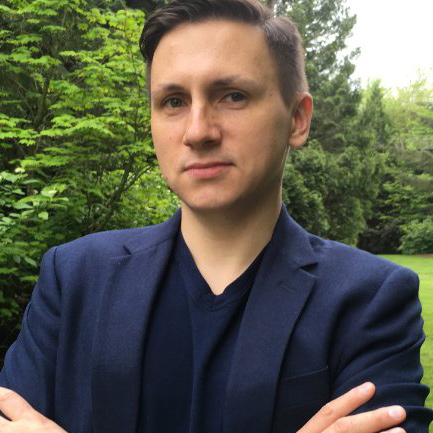
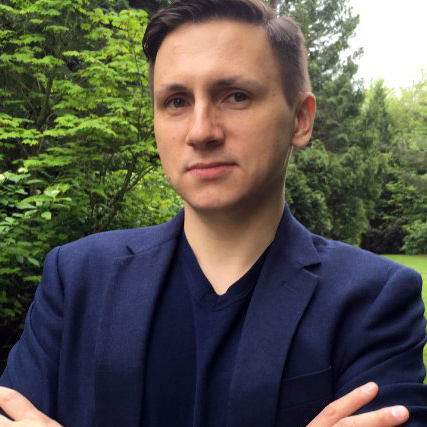
face fix

diff --git a/dist/index.html b/dist/index.html
@@ -14,7 +14,7 @@
 
 	// generate a new token for the $_SESSION superglobal and put them in a hidden field
 	$newToken = generateFormToken('form1');
-?><body><nav id="nav"><ul class="container"><li><a href="#top">Who I am</a></li><li><a href="#work">Work</a></li><li><a href="#portfolio">Portfolio</a></li><li><a href="#contact">Contact</a></li></ul></nav><div class="wrapper wrapper-style1 wrapper-first"><article class="container" id="top"><div class="row"><div class="4u"><span class="me image image-full"><img src="/images/27d9ab0a.me.jpg" alt=""/></span></div><div class="8u"><header><h1>Hi. I'm <strong>Gleb Polushkin</strong>.</h1></header><p>I am a <strong>front-end developer</strong> with 12+ years experience of web programming.</p><a href="#work" class="button button-big">Learn about what I do</a></div></div></article></div><div class="wrapper wrapper-style2"><article id="work"><header><h2>I'm using stable next-step technologies which makes websites richer</h2><span>It helps to create websites that allow the user to experience better filling of your service on wide range of mobile and non-mobile devices.</span></header><div class="container"><div class="row"><div class="4u"><section class="box box-style1"><span class="icn featured"><svg version="1.1" xmlns="http://www.w3.org/2000/svg" xmlns:xlink="http://www.w3.org/1999/xlink" xmlns:a="http://ns.adobe.com/AdobeSVGViewerExtensions/3.0/" x="0px" y="0px" width="166px" height="218px" viewbox="-16.8 -14.5 206 273" overflow="visible" enable-background="new -16.8 -14.5 206 273" xml:space="preserve"><defs></defs><path fill-rule="evenodd" clip-rule="evenodd" fill="#E34F26" d="M156.5,62.5l-12.8,151.2l-57.8,16.5L85.6,62.5H156.5z M172.4,48.4 c0,0-10.5,118.9-16.2,176.4C133.2,231.6,87.4,245,86,245c-1,0-46.8-13.4-70.2-20.1C10.5,167.3,0,48.4,0,48.4H172.4z"/><polygon fill-rule="evenodd" clip-rule="evenodd" fill="#F1662A" points="156.6,62.3 143.9,214.4 85.4,230.7 85.4,62.3 "/><path fill-rule="evenodd" clip-rule="evenodd" fill="#FFFFFF" d="M139.9,84.9l-1.9,20.6H55.4l2.1,22.8l78.6,0.2l-5.7,66.7l-44.4,12 l-43.9-12l-2.9-33.6h21l1.4,16.8l24.4,6.7c0,0,16.2-4.3,24.4-6.7c0.5,0,2.9-28.8,2.9-28.8H37.7l-5.2-64.7H139.9z"/><path fill-rule="evenodd" clip-rule="evenodd" fill="#010101" d="M141.4,0v22h15.3v10.6h-25.8V0H141.4z M99.3,0 c2.4,3.8,4.3,7.7,7.2,11.5L113.7,0h11v32.6h-10.5V16.3c-2.9,3.8-5.3,7.7-7.6,11.5l-8.1-11.5v16.3h-10V0H99.3z M82.6,0v10.5h-9.6 v22.1H62.6V10.5H53V0H82.6z M26.3,0v11h11V0h10v32.6h-10v-11h-11v11h-10V0H26.3z"/></svg></span> <p>HTML5 has the latest mm features and keeps it easily readable by humans and consistently understood by robots and other devices.</p></section></div><div class="4u"><section class="box box-style1"><span class="icn featured"><svg version="1.1" xmlns="http://www.w3.org/2000/svg" xmlns:xlink="http://www.w3.org/1999/xlink" xmlns:a="http://ns.adobe.com/AdobeSVGViewerExtensions/3.0/" x="0px" y="0px" width="166px" height="218px" viewbox="-16.8 -14.5 206 273" overflow="visible" enable-background="new -16.8 -14.5 206 273" xml:space="preserve"><defs></defs><path fill-rule="evenodd" clip-rule="evenodd" fill="#4971B8" d="M156.5,62.5l-12.8,151.2l-57.8,16.5L85.6,62.5H156.5z M172.4,48.4 c0,0-10.5,118.9-16.2,176.4C133.2,231.6,87.4,245,86,245c-1,0-46.8-13.4-70.2-20.1C10.5,167.3,0,48.4,0,48.4H172.4z"/><polygon fill-rule="evenodd" clip-rule="evenodd" fill="#5690CC" points="156.7,62.3 143.9,214.4 85.4,230.7 85.4,62.3 "/><polygon fill-rule="evenodd" clip-rule="evenodd" fill="#FFFFFF" points="140.2,84.8 137.9,105.2 90.5,128.4 136.2,128.4 130.7,195.3 85.1,207.6 41.7,195 38.6,161.1 60.8,161.3 61.7,178.2 85.1,184.6 110.8,178 113,149.8 37.6,150 36,129.4 87,106.6 33.9,105.8 32.5,84.8 "/><path fill-rule="evenodd" clip-rule="evenodd" fill="#010101" d="M137.6,0v11.4h-8.8l8.6,11.9v9.5h-25.8V22.3h8.4 c0,0,0.2-0.2,0.2-0.5l-9.3-13.1V0H137.6z M100,0v11.4h-8.6L100,23v9.7H74.2V22.1h8.6L73.5,8.5V0H100z M62.1,0v10.9H46.6v11.4h15.5 v10.4H35.4V0H62.1z"/></svg></span> <p>CSS3 allows to build content-rich web pages with amazing visual effects, better user interfaces and cleaner pages that load ultra fast.</p></section></div><div class="4u"><section class="box box-style1"><span class="icn featured"><svg version="1.1" xmlns="http://www.w3.org/2000/svg" xmlns:xlink="http://www.w3.org/1999/xlink" xmlns:a="http://ns.adobe.com/AdobeSVGViewerExtensions/3.0/" x="0px" y="0px" width="166px" height="218px" viewbox="-16.8 -14.5 206 273" overflow="visible" enable-background="new -16.8 -14.5 206 273" xml:space="preserve"><defs></defs><path fill-rule="evenodd" clip-rule="evenodd" fill="#03A48F" d="M156.5,62.5l-12.8,151.2l-57.8,16.5L85.6,62.5H156.5z M172.4,48.4 c0,0-10.5,118.9-16.2,176.4C133.2,231.6,87.4,245,86,245c-1,0-46.8-13.4-70.2-20.1C10.5,167.3,0,48.4,0,48.4H172.4z"/><polygon fill-rule="evenodd" clip-rule="evenodd" fill="#6DC8C2" points="156.7,62.3 143.8,214.4 85.4,230.7 85.4,62.3 "/><path fill-rule="evenodd" clip-rule="evenodd" fill="#FFFFFF" d="M116.1,127.7H56.9l-1.2-21.9l62.5,0.2L116.1,127.7z M139.1,85.1 c0,0.9-5.1,65.3-5.1,65.3h-14.9l9.3,45.2l-26.2,7.3l-5.1-52.6l-38.6-0.3l6.9,51.8L41.4,195L31.6,85.1H139.1z"/><path fill-rule="evenodd" clip-rule="evenodd" fill="#010101" d="M30.6,0.3c-0.4-1.1,0,32,0,32h10.5v-9.3c0,0,1.1-0.5,8.1,9.3 c0.1,0.1,12.1,0,12.1,0l-7.5-11.1c0,0,9.9-2.8,5.1-14.8C55.3-2.6,31,1.4,30.6,0.3 M40.9,9.6c0,0,9-1.4,8.8,3.1 c-0.2,4-8.8,2.9-8.8,2.9V9.6z M71.4,0.5H60.5l9.9,32h9.5l5.4-15.6l5.5,15.6h9.5l10.3-32.2H99.3L95,15.8L90,0.1h-8.9l-5,15.4 L71.4,0.5z M112,0.7l0.2,31.6c0,0,34,5.6,30.7-18.8C140.5-4.4,112,0.7,112,0.7 M122.7,10c0,0,8.5-1.3,9.3,5.6c1,8.6-9.3,7.4-9.3,7.4 V10z"/></svg></span> <p>Responsive web design is a technic which produce a better reading for user with a minimum of resizing or scrolling on a wide range of devices.</p></section></div></div></div><footer><p>My current front-end stack consists of jquery, backbone.js, bootstrap+less, handlebars.js, grunt or gulp, node.js</p><a href="#portfolio" class="button button-big">Take a look at my recent work</a></footer></article></div><div class="wrapper wrapper-style3"><article id="portfolio"><header><h2>Awesome projects for the awesome clients.</h2></header><div class="container"><div class="row"><div class="12u"></div></div><div class="row"><div class="4u"><article class="box box-style2"><a href="http://mirow.ru" target="_blank" class="image image-full"><img src="/images/65f660cb.mirow_shadow.png" alt=""/></a><h3><a href="http://mirow.ru">Mirow</a></h3><p>Fitting room kiosk web applicatons and site for retail service company</p></article></div><div class="4u"><article class="box box-style2"><a href="https://damprodam.ru/" target="_blank" class="image image-full"><img src="/images/1ed9d5f1.damprodam_shadow.png" alt=""/></a><h3><a href="https://damprodam.ru/">DamProdam</a></h3><p>Responsive gadgets exchange platform free of charge</p></article></div><div class="4u"><article class="box box-style2"><a href="https://www.startupthreads.com/pricing-faq/" target="_blank" class="image image-full"><img src="/images/c3254df4.sus_shadow.png" alt=""/></a><h3><a href="https://www.startupthreads.com/">Startup Threads</a></h3><p>Web site, constructor apps for Brooklyn apparel company</p></article></div></div><div class="row"><div class="4u"><article class="box box-style2"><a href="https://www.iphones.ru" target="_blank" class="image image-full"><img src="/images/2d7e3616.iphones_shadow.png" alt=""/></a><h3><a href="https://www.iphones.ru">iPhones.ru</a></h3><p>Responsive news service about gadgets with a 10M audience</p></article></div><div class="4u"><article class="box box-style2"><a href="https://justhost.ru/hosting/" target="_blank" class="image image-full"><img src="/images/e6c9eeba.justhost_shadow.png" alt=""/></a><h3><a href="https://justhost.ru/hosting/">Justhost</a></h3><p>Minimal and clean web site for a russian hosting company</p></article></div><div class="4u"><article class="box box-style2"><a href="http://www.bsentresence.com/" target="_blank" class="image image-full"><img src="/images/4088f45e.bsent_shadow.png" alt=""/></a><h3><a href="http://www.bsentresence.com/">Bsent Resence</a></h3><p>Flashy site for contemporary design production company</p></article></div></div><div class="row"><div class="4u"><article class="box box-style2"><a href="http://www.asentpreence.com/" target="_blank" class="image image-full"><img src="/images/4e3a573a.ap_shadow.png" alt=""/></a><h3><a href="http://www.asentpreence.com/">A Sent Pre Ence</a></h3><p>Responsive catalog site for a young jewelry designer company</p></article></div><div class="4u"><article class="box box-style2"><a href="http://cassby.com" target="_blank" class="image image-full"><img src="/images/7877a40d.cassby_shadow.png" alt=""/></a><h3><a href="http://cassby.com">Cassby</a></h3><p>Web landing page for the russian Stripe-like startup</p></article></div><div class="4u"><article class="box box-style2"><a href="http://qstoq.ru" target="_blank" class="image image-full"><img src="/images/cab53fe1.qstoq_shadow.png" alt=""/></a><h3><a href="http://qstoq.ru">Qstoq</a></h3><p>Gorgeous app with idea of creating small price tags for any goods</p></article></div></div><div class="row"><div class="4u"><article class="box box-style2"><a href="https://play.google.com/store/apps/details?id=com.weheartpics&hl=en" target="_blank" class="image image-full"><img src="/images/d9ebfe2c.whp_shadow.png" alt=""/></a><h3><a href="https://play.google.com/store/apps/details?id=com.weheartpics&hl=en">We Heart Pics</a></h3><p>Fully responsive mobile-first web application for photosharing mobile app</p></article></div><div class="4u"><article class="box box-style2"><a href="http://web.archive.org/web/20160412231808/http://bigbuzzy.ru/moscow/" target="_blank" class="image image-full"><img src="/images/1efd687b.bigbuzzy_shadow.png" alt=""/></a><h3><a href="http://web.archive.org/web/20160412231808/http://bigbuzzy.ru/moscow/">BigBuzzy</a></h3><p>High-load groupon-like site with ie6 support and absolutely crazy team members</p></article></div><div class="4u"><article class="box box-style2"><a href="http://web.archive.org/web/20130927065445/http://bigbuzzy.ru/m/" target="_blank" class="image image-full"><img src="/images/be1a0f53.mbigbuzzy_shadow.png" alt=""/></a><h3><a href="http://web.archive.org/web/20130927065445/http://bigbuzzy.ru/m/">Mobile BigBuzzy</a></h3><p>Mobile-first site on progress enhancement and ability to work without js</p></article></div></div></div><footer><p>It is more or less what I am doing</p><a href="#contact" class="button button-big">Get in touch with me</a></footer></article></div><div class="wrapper wrapper-style4"><article id="contact" class="container small"><header><h2>Want to hire me? Get in touch!</h2><span>I'll answer you if it is a day or a night, so don't be shy — I'm right behind this form.</span></header><div><div class="row"><div class="12u"><form method="post" action="#" class="mail-form"><input type="hidden" name="token" id="token" value="<?php echo $newToken;?>"/><div><div class="row half"><div class="6u"><input type="text" name="name" id="name" placeholder="Name"/></div><div class="6u"><input type="text" name="email" id="email" placeholder="Email"/></div></div><div class="row half"><div class="12u"><input type="text" name="subject" id="subject" placeholder="Subject"/></div></div><div class="row half"><div class="12u"><textarea name="message" id="message" placeholder="Message"></textarea></div></div><div class="mail-form__error row"></div><div class="row"><div class="12u"><a href="#" class="button form-button-submit">Send Message</a> <a href="#" class="button button-alt form-button-reset">Clear Form</a></div></div></div><input type="submit" class="hidden-input"/></form></div></div><div class="row"><div class="12u"><hr/><h3>Find me on ...</h3><ul class="social"><li class="linkedin"><a href="http://linkedin.com/in/proll/" class="fa fa-linkedin"><span>LinkedIn</span></a></li><li class="twitter"><a href="https://twitter.com/prolll" class="fa fa-twitter"><span>Twitter</span></a></li><li class="facebook"><a href="https://www.facebook.com/prolll" class="fa fa-facebook"><span>Facebook</span></a></li><li class="github"><a href="https://github.com/proll" class="fa fa-github"><span>Github</span></a></li><li class="tumblr"><a href="http://blog.prolll.com" class="fa fa-tumblr"><span>Tumblr</span></a></li></ul><hr/></div></div></div><footer><ul id="copyright"><li>&copy; 2016 Gleb Polushkin</li></ul></footer></article></div><script type="text/javascript">var _gaq = _gaq || [];
+?><body><nav id="nav"><ul class="container"><li><a href="#top">Who I am</a></li><li><a href="#work">Work</a></li><li><a href="#portfolio">Portfolio</a></li><li><a href="#contact">Contact</a></li></ul></nav><div class="wrapper wrapper-style1 wrapper-first"><article class="container" id="top"><div class="row"><div class="4u"><span class="me image image-full"><img src="/images/af707b1f.me.jpg" alt=""/></span></div><div class="8u"><header><h1>Hi. I'm <strong>Gleb Polushkin</strong>.</h1></header><p>I am a <strong>front-end developer</strong> with 12+ years experience of web programming.</p><a href="#work" class="button button-big">Learn about what I do</a></div></div></article></div><div class="wrapper wrapper-style2"><article id="work"><header><h2>I'm using stable next-step technologies which makes websites richer</h2><span>It helps to create websites that allow the user to experience better filling of your service on wide range of mobile and non-mobile devices.</span></header><div class="container"><div class="row"><div class="4u"><section class="box box-style1"><span class="icn featured"><svg version="1.1" xmlns="http://www.w3.org/2000/svg" xmlns:xlink="http://www.w3.org/1999/xlink" xmlns:a="http://ns.adobe.com/AdobeSVGViewerExtensions/3.0/" x="0px" y="0px" width="166px" height="218px" viewbox="-16.8 -14.5 206 273" overflow="visible" enable-background="new -16.8 -14.5 206 273" xml:space="preserve"><defs></defs><path fill-rule="evenodd" clip-rule="evenodd" fill="#E34F26" d="M156.5,62.5l-12.8,151.2l-57.8,16.5L85.6,62.5H156.5z M172.4,48.4 c0,0-10.5,118.9-16.2,176.4C133.2,231.6,87.4,245,86,245c-1,0-46.8-13.4-70.2-20.1C10.5,167.3,0,48.4,0,48.4H172.4z"/><polygon fill-rule="evenodd" clip-rule="evenodd" fill="#F1662A" points="156.6,62.3 143.9,214.4 85.4,230.7 85.4,62.3 "/><path fill-rule="evenodd" clip-rule="evenodd" fill="#FFFFFF" d="M139.9,84.9l-1.9,20.6H55.4l2.1,22.8l78.6,0.2l-5.7,66.7l-44.4,12 l-43.9-12l-2.9-33.6h21l1.4,16.8l24.4,6.7c0,0,16.2-4.3,24.4-6.7c0.5,0,2.9-28.8,2.9-28.8H37.7l-5.2-64.7H139.9z"/><path fill-rule="evenodd" clip-rule="evenodd" fill="#010101" d="M141.4,0v22h15.3v10.6h-25.8V0H141.4z M99.3,0 c2.4,3.8,4.3,7.7,7.2,11.5L113.7,0h11v32.6h-10.5V16.3c-2.9,3.8-5.3,7.7-7.6,11.5l-8.1-11.5v16.3h-10V0H99.3z M82.6,0v10.5h-9.6 v22.1H62.6V10.5H53V0H82.6z M26.3,0v11h11V0h10v32.6h-10v-11h-11v11h-10V0H26.3z"/></svg></span> <p>HTML5 has the latest mm features and keeps it easily readable by humans and consistently understood by robots and other devices.</p></section></div><div class="4u"><section class="box box-style1"><span class="icn featured"><svg version="1.1" xmlns="http://www.w3.org/2000/svg" xmlns:xlink="http://www.w3.org/1999/xlink" xmlns:a="http://ns.adobe.com/AdobeSVGViewerExtensions/3.0/" x="0px" y="0px" width="166px" height="218px" viewbox="-16.8 -14.5 206 273" overflow="visible" enable-background="new -16.8 -14.5 206 273" xml:space="preserve"><defs></defs><path fill-rule="evenodd" clip-rule="evenodd" fill="#4971B8" d="M156.5,62.5l-12.8,151.2l-57.8,16.5L85.6,62.5H156.5z M172.4,48.4 c0,0-10.5,118.9-16.2,176.4C133.2,231.6,87.4,245,86,245c-1,0-46.8-13.4-70.2-20.1C10.5,167.3,0,48.4,0,48.4H172.4z"/><polygon fill-rule="evenodd" clip-rule="evenodd" fill="#5690CC" points="156.7,62.3 143.9,214.4 85.4,230.7 85.4,62.3 "/><polygon fill-rule="evenodd" clip-rule="evenodd" fill="#FFFFFF" points="140.2,84.8 137.9,105.2 90.5,128.4 136.2,128.4 130.7,195.3 85.1,207.6 41.7,195 38.6,161.1 60.8,161.3 61.7,178.2 85.1,184.6 110.8,178 113,149.8 37.6,150 36,129.4 87,106.6 33.9,105.8 32.5,84.8 "/><path fill-rule="evenodd" clip-rule="evenodd" fill="#010101" d="M137.6,0v11.4h-8.8l8.6,11.9v9.5h-25.8V22.3h8.4 c0,0,0.2-0.2,0.2-0.5l-9.3-13.1V0H137.6z M100,0v11.4h-8.6L100,23v9.7H74.2V22.1h8.6L73.5,8.5V0H100z M62.1,0v10.9H46.6v11.4h15.5 v10.4H35.4V0H62.1z"/></svg></span> <p>CSS3 allows to build content-rich web pages with amazing visual effects, better user interfaces and cleaner pages that load ultra fast.</p></section></div><div class="4u"><section class="box box-style1"><span class="icn featured"><svg version="1.1" xmlns="http://www.w3.org/2000/svg" xmlns:xlink="http://www.w3.org/1999/xlink" xmlns:a="http://ns.adobe.com/AdobeSVGViewerExtensions/3.0/" x="0px" y="0px" width="166px" height="218px" viewbox="-16.8 -14.5 206 273" overflow="visible" enable-background="new -16.8 -14.5 206 273" xml:space="preserve"><defs></defs><path fill-rule="evenodd" clip-rule="evenodd" fill="#03A48F" d="M156.5,62.5l-12.8,151.2l-57.8,16.5L85.6,62.5H156.5z M172.4,48.4 c0,0-10.5,118.9-16.2,176.4C133.2,231.6,87.4,245,86,245c-1,0-46.8-13.4-70.2-20.1C10.5,167.3,0,48.4,0,48.4H172.4z"/><polygon fill-rule="evenodd" clip-rule="evenodd" fill="#6DC8C2" points="156.7,62.3 143.8,214.4 85.4,230.7 85.4,62.3 "/><path fill-rule="evenodd" clip-rule="evenodd" fill="#FFFFFF" d="M116.1,127.7H56.9l-1.2-21.9l62.5,0.2L116.1,127.7z M139.1,85.1 c0,0.9-5.1,65.3-5.1,65.3h-14.9l9.3,45.2l-26.2,7.3l-5.1-52.6l-38.6-0.3l6.9,51.8L41.4,195L31.6,85.1H139.1z"/><path fill-rule="evenodd" clip-rule="evenodd" fill="#010101" d="M30.6,0.3c-0.4-1.1,0,32,0,32h10.5v-9.3c0,0,1.1-0.5,8.1,9.3 c0.1,0.1,12.1,0,12.1,0l-7.5-11.1c0,0,9.9-2.8,5.1-14.8C55.3-2.6,31,1.4,30.6,0.3 M40.9,9.6c0,0,9-1.4,8.8,3.1 c-0.2,4-8.8,2.9-8.8,2.9V9.6z M71.4,0.5H60.5l9.9,32h9.5l5.4-15.6l5.5,15.6h9.5l10.3-32.2H99.3L95,15.8L90,0.1h-8.9l-5,15.4 L71.4,0.5z M112,0.7l0.2,31.6c0,0,34,5.6,30.7-18.8C140.5-4.4,112,0.7,112,0.7 M122.7,10c0,0,8.5-1.3,9.3,5.6c1,8.6-9.3,7.4-9.3,7.4 V10z"/></svg></span> <p>Responsive web design is a technic which produce a better reading for user with a minimum of resizing or scrolling on a wide range of devices.</p></section></div></div></div><footer><p>My current front-end stack consists of jquery, backbone.js, bootstrap+less, handlebars.js, grunt or gulp, node.js</p><a href="#portfolio" class="button button-big">Take a look at my recent work</a></footer></article></div><div class="wrapper wrapper-style3"><article id="portfolio"><header><h2>Awesome projects for the awesome clients.</h2></header><div class="container"><div class="row"><div class="12u"></div></div><div class="row"><div class="4u"><article class="box box-style2"><a href="http://mirow.ru" target="_blank" class="image image-full"><img src="/images/65f660cb.mirow_shadow.png" alt=""/></a><h3><a href="http://mirow.ru">Mirow</a></h3><p>Fitting room kiosk web applicatons and site for retail service company</p></article></div><div class="4u"><article class="box box-style2"><a href="https://damprodam.ru/" target="_blank" class="image image-full"><img src="/images/1ed9d5f1.damprodam_shadow.png" alt=""/></a><h3><a href="https://damprodam.ru/">DamProdam</a></h3><p>Responsive gadgets exchange platform free of charge</p></article></div><div class="4u"><article class="box box-style2"><a href="https://www.startupthreads.com/pricing-faq/" target="_blank" class="image image-full"><img src="/images/c3254df4.sus_shadow.png" alt=""/></a><h3><a href="https://www.startupthreads.com/">Startup Threads</a></h3><p>Web site, constructor apps for Brooklyn apparel company</p></article></div></div><div class="row"><div class="4u"><article class="box box-style2"><a href="https://www.iphones.ru" target="_blank" class="image image-full"><img src="/images/2d7e3616.iphones_shadow.png" alt=""/></a><h3><a href="https://www.iphones.ru">iPhones.ru</a></h3><p>Responsive news service about gadgets with a 10M audience</p></article></div><div class="4u"><article class="box box-style2"><a href="https://justhost.ru/hosting/" target="_blank" class="image image-full"><img src="/images/e6c9eeba.justhost_shadow.png" alt=""/></a><h3><a href="https://justhost.ru/hosting/">Justhost</a></h3><p>Minimal and clean web site for a russian hosting company</p></article></div><div class="4u"><article class="box box-style2"><a href="http://www.bsentresence.com/" target="_blank" class="image image-full"><img src="/images/4088f45e.bsent_shadow.png" alt=""/></a><h3><a href="http://www.bsentresence.com/">Bsent Resence</a></h3><p>Flashy site for contemporary design production company</p></article></div></div><div class="row"><div class="4u"><article class="box box-style2"><a href="http://www.asentpreence.com/" target="_blank" class="image image-full"><img src="/images/4e3a573a.ap_shadow.png" alt=""/></a><h3><a href="http://www.asentpreence.com/">A Sent Pre Ence</a></h3><p>Responsive catalog site for a young jewelry designer company</p></article></div><div class="4u"><article class="box box-style2"><a href="http://cassby.com" target="_blank" class="image image-full"><img src="/images/7877a40d.cassby_shadow.png" alt=""/></a><h3><a href="http://cassby.com">Cassby</a></h3><p>Web landing page for the russian Stripe-like startup</p></article></div><div class="4u"><article class="box box-style2"><a href="http://qstoq.ru" target="_blank" class="image image-full"><img src="/images/cab53fe1.qstoq_shadow.png" alt=""/></a><h3><a href="http://qstoq.ru">Qstoq</a></h3><p>Gorgeous app with idea of creating small price tags for any goods</p></article></div></div><div class="row"><div class="4u"><article class="box box-style2"><a href="https://play.google.com/store/apps/details?id=com.weheartpics&hl=en" target="_blank" class="image image-full"><img src="/images/d9ebfe2c.whp_shadow.png" alt=""/></a><h3><a href="https://play.google.com/store/apps/details?id=com.weheartpics&hl=en">We Heart Pics</a></h3><p>Fully responsive mobile-first web application for photosharing mobile app</p></article></div><div class="4u"><article class="box box-style2"><a href="http://web.archive.org/web/20160412231808/http://bigbuzzy.ru/moscow/" target="_blank" class="image image-full"><img src="/images/1efd687b.bigbuzzy_shadow.png" alt=""/></a><h3><a href="http://web.archive.org/web/20160412231808/http://bigbuzzy.ru/moscow/">BigBuzzy</a></h3><p>High-load groupon-like site with ie6 support and absolutely crazy team members</p></article></div><div class="4u"><article class="box box-style2"><a href="http://web.archive.org/web/20130927065445/http://bigbuzzy.ru/m/" target="_blank" class="image image-full"><img src="/images/be1a0f53.mbigbuzzy_shadow.png" alt=""/></a><h3><a href="http://web.archive.org/web/20130927065445/http://bigbuzzy.ru/m/">Mobile BigBuzzy</a></h3><p>Mobile-first site on progress enhancement and ability to work without js</p></article></div></div></div><footer><p>It is more or less what I am doing</p><a href="#contact" class="button button-big">Get in touch with me</a></footer></article></div><div class="wrapper wrapper-style4"><article id="contact" class="container small"><header><h2>Want to hire me? Get in touch!</h2><span>I'll answer you if it is a day or a night, so don't be shy — I'm right behind this form.</span></header><div><div class="row"><div class="12u"><form method="post" action="#" class="mail-form"><input type="hidden" name="token" id="token" value="<?php echo $newToken;?>"/><div><div class="row half"><div class="6u"><input type="text" name="name" id="name" placeholder="Name"/></div><div class="6u"><input type="text" name="email" id="email" placeholder="Email"/></div></div><div class="row half"><div class="12u"><input type="text" name="subject" id="subject" placeholder="Subject"/></div></div><div class="row half"><div class="12u"><textarea name="message" id="message" placeholder="Message"></textarea></div></div><div class="mail-form__error row"></div><div class="row"><div class="12u"><a href="#" class="button form-button-submit">Send Message</a> <a href="#" class="button button-alt form-button-reset">Clear Form</a></div></div></div><input type="submit" class="hidden-input"/></form></div></div><div class="row"><div class="12u"><hr/><h3>Find me on ...</h3><ul class="social"><li class="linkedin"><a href="http://linkedin.com/in/proll/" class="fa fa-linkedin"><span>LinkedIn</span></a></li><li class="twitter"><a href="https://twitter.com/prolll" class="fa fa-twitter"><span>Twitter</span></a></li><li class="facebook"><a href="https://www.facebook.com/prolll" class="fa fa-facebook"><span>Facebook</span></a></li><li class="github"><a href="https://github.com/proll" class="fa fa-github"><span>Github</span></a></li><li class="tumblr"><a href="http://blog.prolll.com" class="fa fa-tumblr"><span>Tumblr</span></a></li></ul><hr/></div></div></div><footer><ul id="copyright"><li>&copy; 2016 Gleb Polushkin</li></ul></footer></article></div><script type="text/javascript">var _gaq = _gaq || [];
 _gaq.push(['_setAccount', 'UA-46201642-1']);
 _gaq.push(['_trackPageview']);
 //analytics do not load on test
